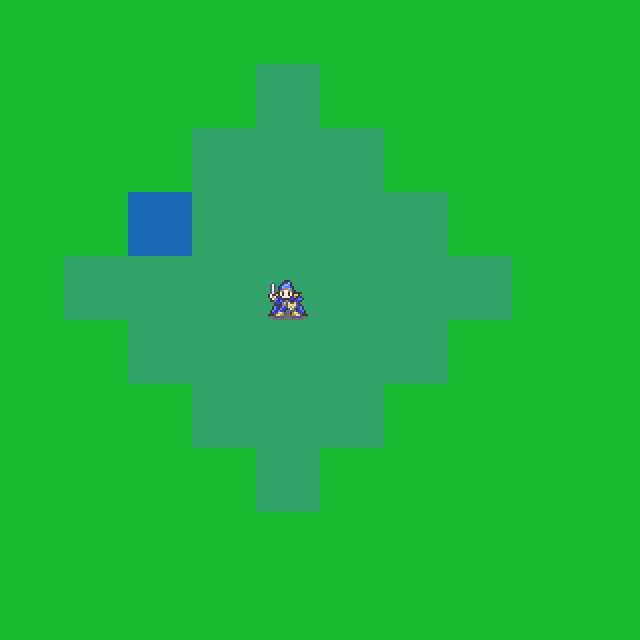
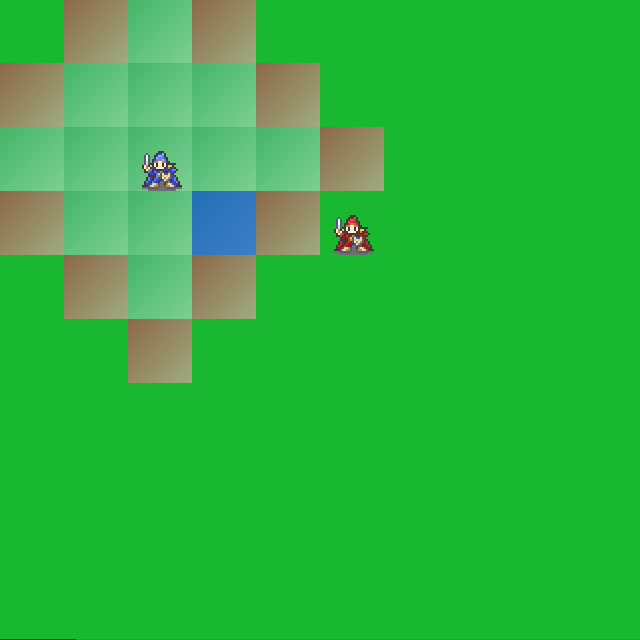
Minor update to readme, screenshot updated

diff --git a/README.md b/README.md
@@ -6,7 +6,8 @@
 This project is a simple turn based strategy game in which units move across a grid to do battle in the style of [Fire Emblem](https://en.wikipedia.org/wiki/Fire_Emblem:_Shadow_Dragon_and_the_Blade_of_Light). More thorough documentation to come.
 
 # Features
-* Basic character movement including a pathfinding algorithm to navigate terrains (an implementation of [Dijkstra's algorithm](https://en.wikipedia.org/wiki/Dijkstra%27s_algorithm))
+* Basic character movement including a pathfinding algorithm to navigate terrain (an implementation of [Dijkstra's algorithm](https://en.wikipedia.org/wiki/Dijkstra%27s_algorithm))
+* Attack and movement range display
 
 # Instructions
 Currently the game only supports selecting a unit and moving it around.
